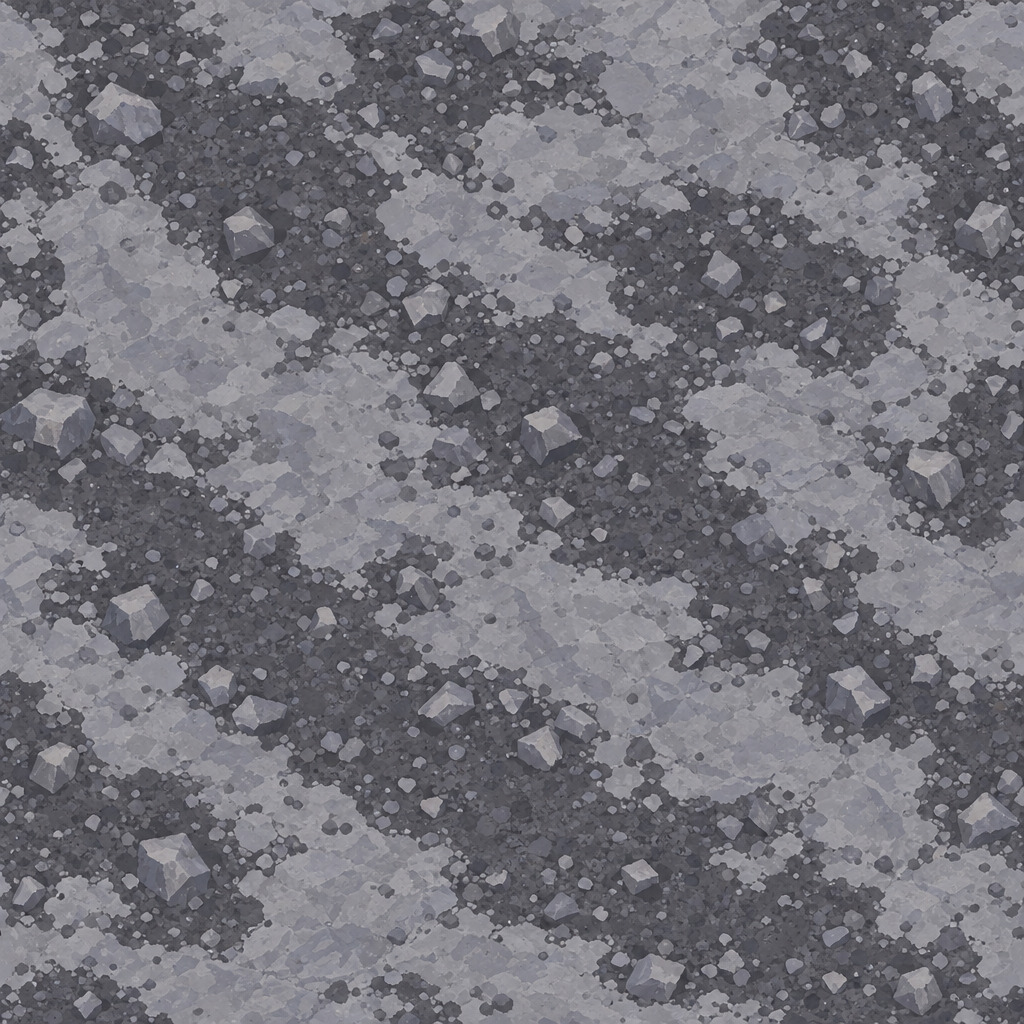
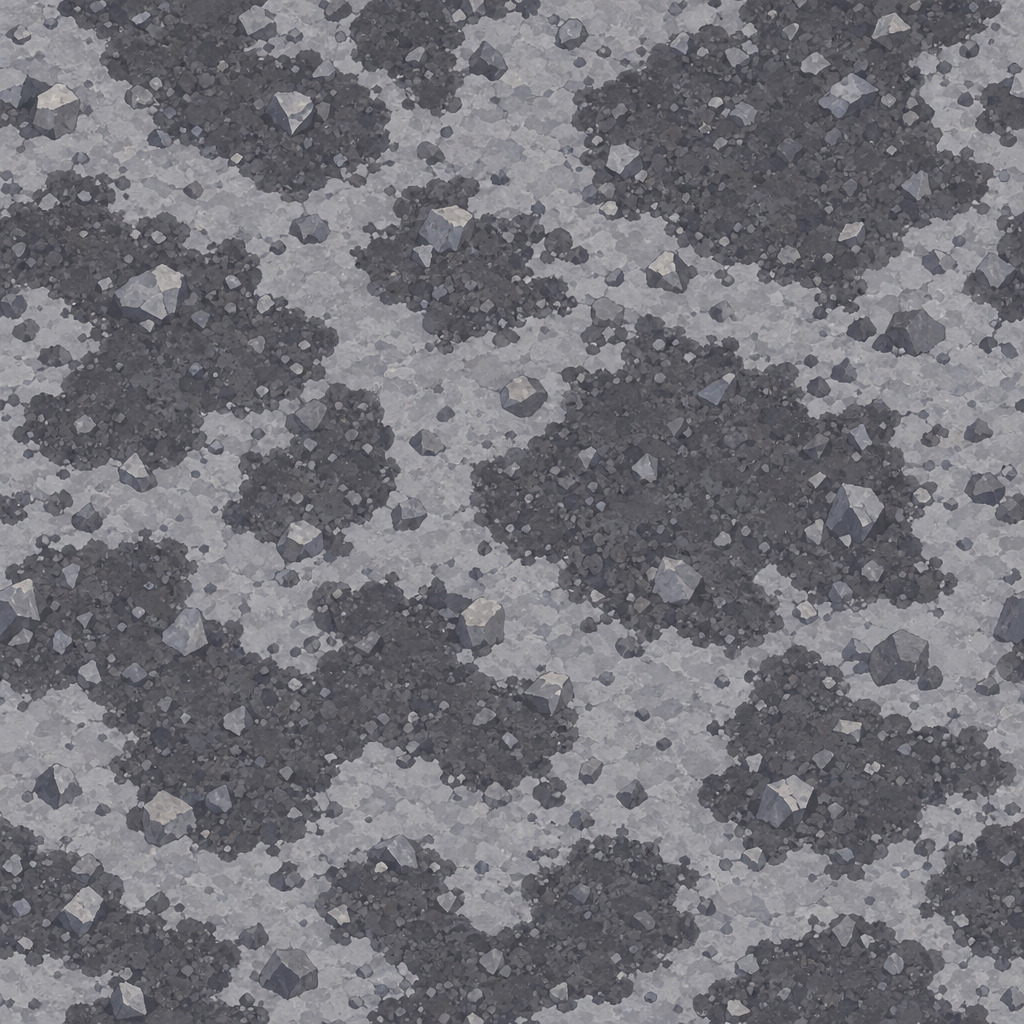
Crater Park: wooden flow bowl with boards round its lip; floor repainted without bands

diff --git a/games/yorimichi/world/regions/craterpark/v2/editor_generate.py b/games/yorimichi/world/regions/craterpark/v2/editor_generate.py
@@ -133,6 +133,31 @@ def decal_uv(V, frame):
     return np.stack([(V[:, 0] - x0) / w, (V[:, 2] - z0) / h], 1)
 
 
+def bowl_uv(piece, size=PLANKS):
+    """UVs for a wooden bowl, its boards running round it parallel to its lip as the ramps' boards run along them: v the
+    distance round the nearest lip, u the distance down from it (across the deck or floor, plus the drop)."""
+    from craterpark.v2 import editor_coping
+    V = np.asarray(piece.mesh.V, 'f8')
+    lips = editor_coping._join(editor_coping.piece_lips(piece))
+    if not lips:
+        return tile_uv(V, np.asarray(piece.mesh.N, 'f8'), size)
+    pts, run, base = [], [], 0.
+    for lip in lips:
+        P = np.asarray(lip[0], 'f8')
+        d = np.r_[0., np.cumsum(np.linalg.norm(np.diff(P, axis=0), axis=1))]
+        pts.append(P)
+        run.append(base + d)
+        base += d[-1] + 50.
+    P, R = np.concatenate(pts), np.concatenate(run)
+    uv = np.zeros((len(V), 2))
+    for a in range(0, len(V), 2048):
+        Q = V[a:a + 2048]
+        k = (((Q[:, None, [0, 2]] - P[None, :, [0, 2]]) ** 2).sum(2)).argmin(1)
+        flat = np.hypot(Q[:, 0] - P[k, 0], Q[:, 2] - P[k, 2])
+        uv[a:a + 2048] = np.stack([flat + np.maximum(P[k, 1] - Q[:, 1], 0.), R[k]], 1)
+    return uv / size
+
+
 def piece_mesh(piece, decal=None, tower=False):
     """The piece's riding faces and sides; a tower deck (editor_supports.tower) keeps only its top."""
     m, meta = piece.mesh, piece.metadata
@@ -141,10 +166,13 @@ def piece_mesh(piece, decal=None, tower=False):
     for c in SIDE_COLOURS:
         side |= (np.abs(col[F] - c).max(2) < 0.02).all(1)
     parts = []
-    # wooden ramps (the park's ramp boards) everywhere but the bowls, which stay poured concrete
-    concrete = meta['type'] == 'bowl'
-    laid = not concrete and meta.get('stations')
+    # wooden ramps (the park's ramp boards) and wooden bowls; a bowl with its own graphic (DECALS) stays poured concrete
+    bowl = meta['type'] == 'bowl'
+    concrete = bowl and decal is not None
+    laid = not bowl and meta.get('stations')
     ride, ride_uv = (dsl.CONCRETE if concrete else WOOD), (piece_uv(V, meta['stations']) if laid else None)
+    if bowl and not concrete:
+        ride_uv = bowl_uv(piece)
     if decal:
         ride, ride_uv = decal, decal_uv(V, decal_frame(V))
     for mask, role, material, uv in (

diff --git a/games/yorimichi/tools/craterpark_textures.py b/games/yorimichi/tools/craterpark_textures.py
@@ -156,7 +156,8 @@ WORLD_PAINTINGS = {
     'crater_floor': ('crater_stone', 'blend', 'the bare ground of a volcanic crater floor, only its stone and gravel as in '
                      'Image 1: a light cool mid-grey volcanic stone surface, soft and slightly bluish grey, broken by large '
                      'irregular patches of darker charcoal-grey gravel and fine scree several times bigger than the small '
-                     'stones, scattered small and medium angular grey stones with pale tops, broad gentle variation in tone '
+                     'stones, the patches rounded blobs of different sizes scattered evenly in every direction, never '
+                     'diagonal bands, stripes, rows or streaks, seen from straight above; scattered small and medium angular grey stones with pale tops, broad gentle variation in tone '
                      'over the whole square; neutral and cool, no brown, no tan, no snow, no moss, no grass, no plants, '
                      'no boulders, no paths'),
 }
